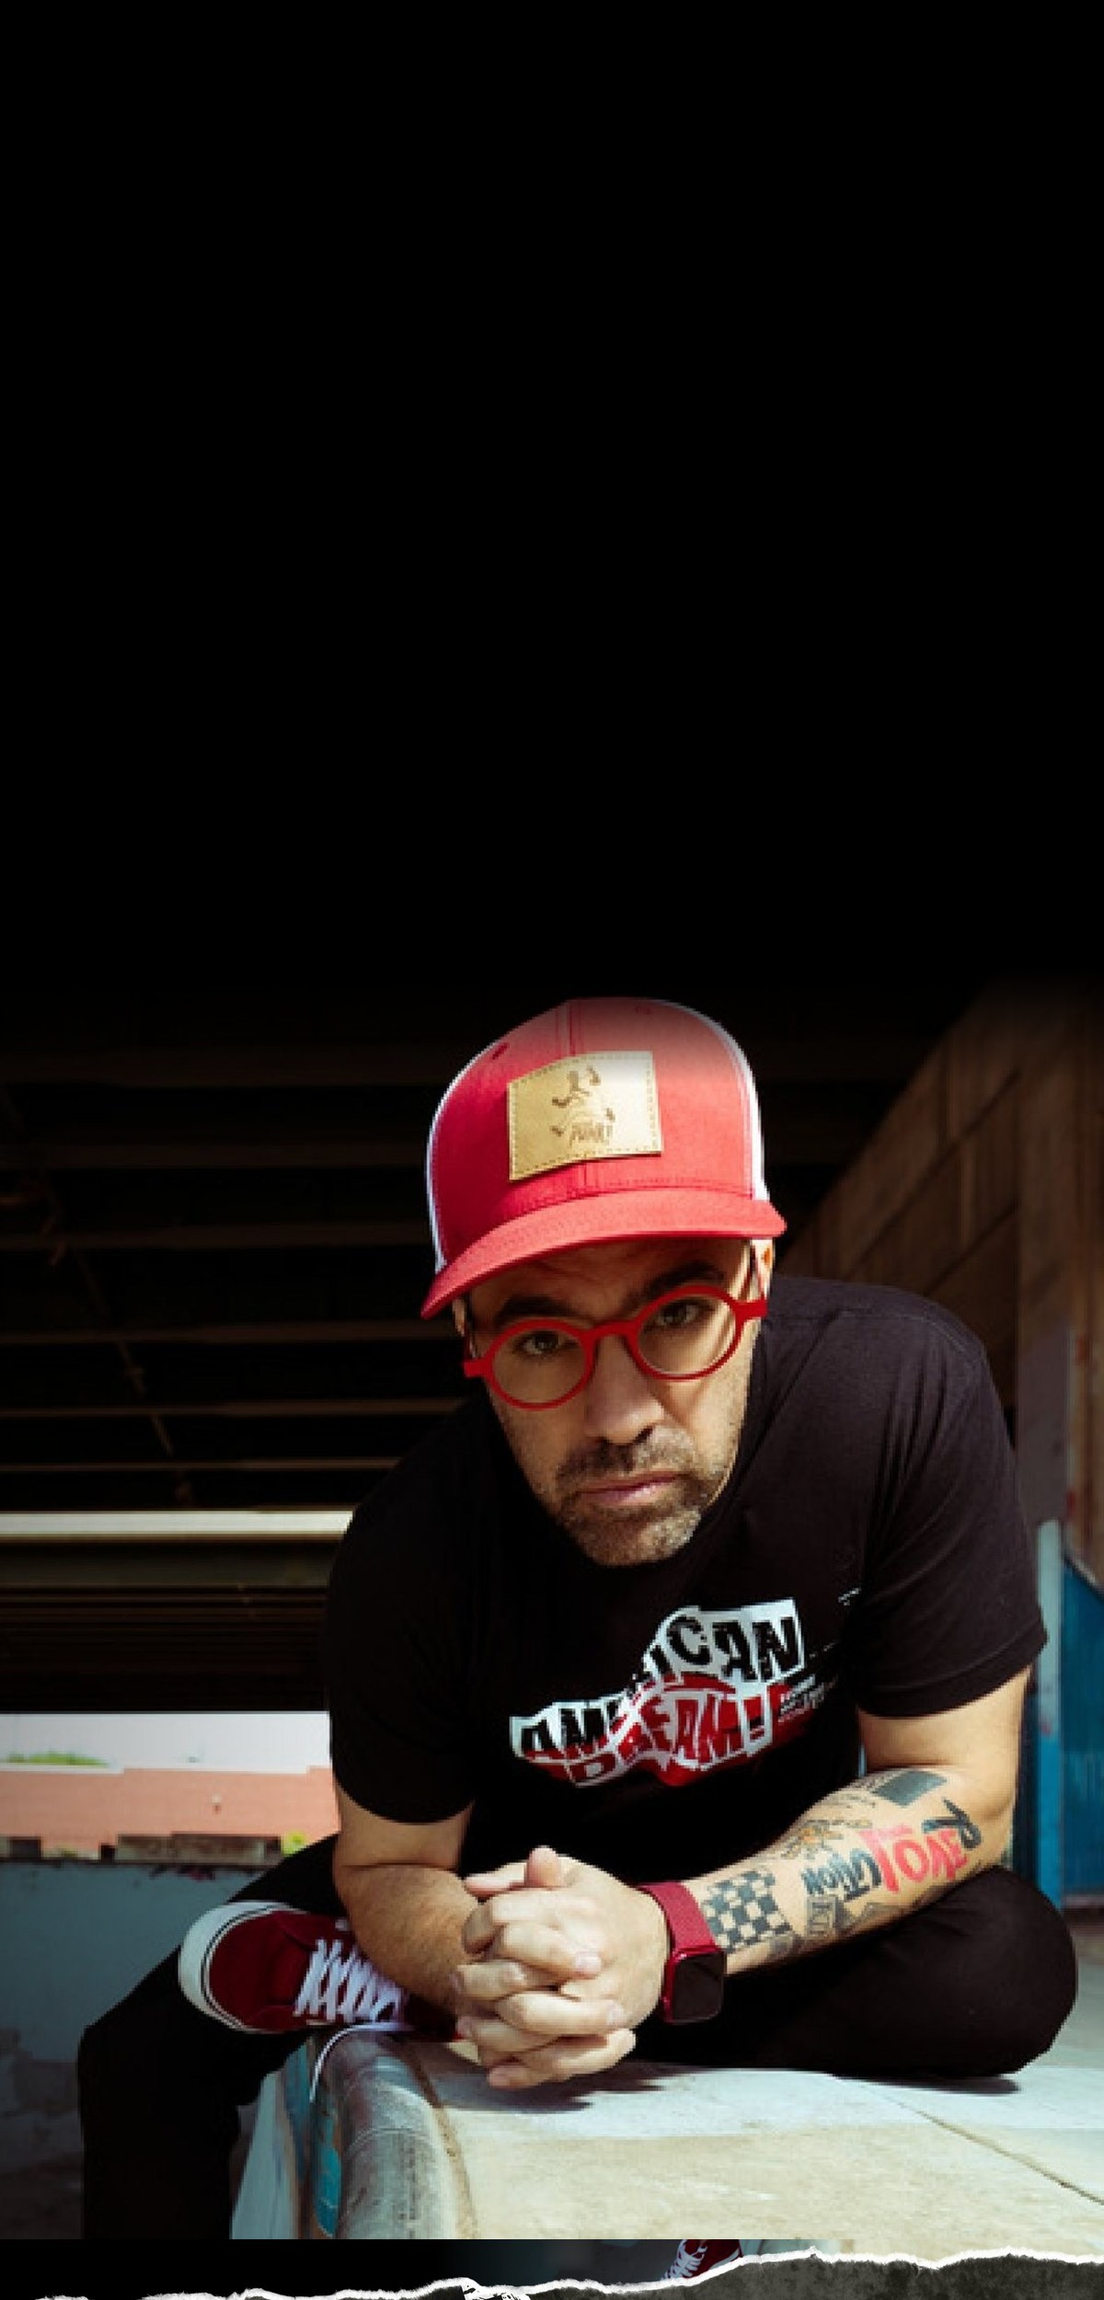
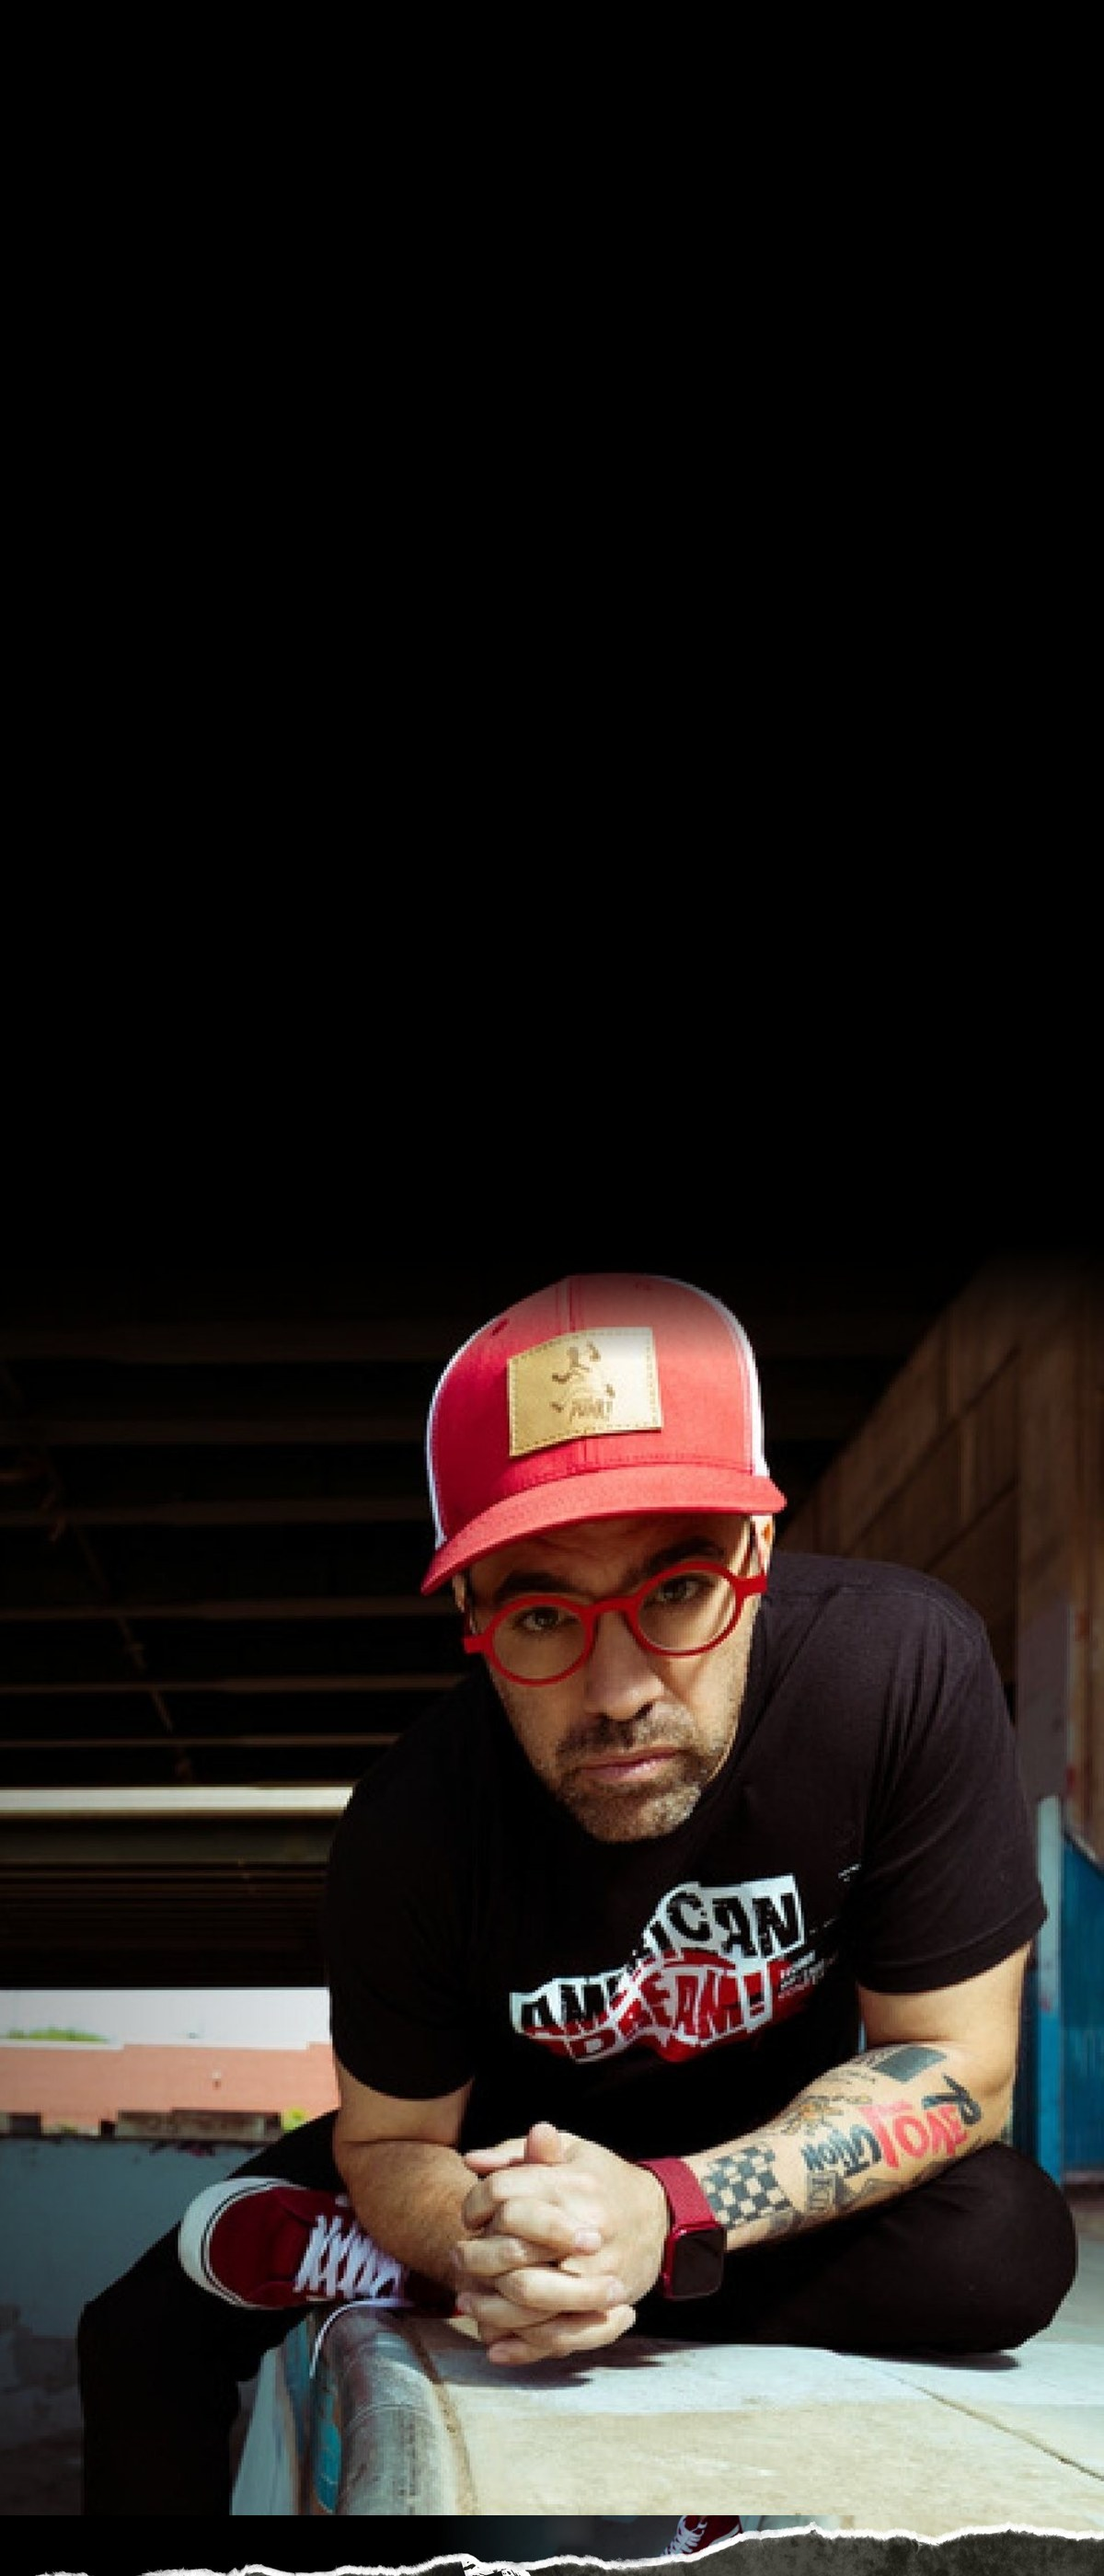
Put the splat back on phones
Dropping it was the wrong call. It was hidden because at phone width it
landed under the navigation's own Mortgage Punk mark and across
"REIMAGINING THE" — but the splat punching in is the single most-liked thing
on this page, and the right fix was making room for it rather than removing
it.

hero-plate-m.jpg goes from 1200x2500 to 1200x2800. The extra 300px is the
room the splat needed: the black field above the photograph is now 48% of the
plate and holds all three layers in reading order — splat, headline, prompt —
with the photograph and the torn edge unchanged below them.

Top 3% puts the splat's first pixel 69px down the viewport on a 390x844
screen against a navigation bar ending at 67px. That 2px is the whole margin,
so moving it up from here puts it behind the nav.

Every box keeps its artwork's own ratio, measured rather than assumed: splat
360x260 against a 460x332 source, headline 864x784 against 1163x1056, prompt
504x260 against 416x215. Nothing is stretched.

Verified the punch itself still runs here and is not just a static logo —
probed across the animation it scales to roughly 3x with the flash peaking at
0.27 before settling, which is the desktop behaviour. Desktop is untouched:
it still uses the 2600x1622 plate and the phone-only prompt layer computes to
display:none there.

The hero now stands at 114% of a phone screen rather than 102%, so his hands
sit just below the fold. That is the cost of the splat and it is worth it.
[…]

Changed region(s): [[0.0, 0.4056, 1.0, 1.0], [0.0308, 0.9984, 0.0925, 1.0], [0.1233, 0.9984, 0.1542, 1.0]]

diff --git a/src/components/sections/CompStage.module.css b/src/components/sections/CompStage.module.css
@@ -346,27 +346,33 @@
    the hole diffused shut, so on phones it is placed where the layout wants it
    and the hotspot follows it. Desktop still uses the painted one. */
 @media(max-width:760px){
-  .hero{aspect-ratio:1200/2500;
+  .hero{aspect-ratio:1200/2800;
     background-image:url("/brand/hero-plate-m.jpg")}
 
-  /* NO SPLAT ON PHONES. The navigation already carries the Mortgage Punk mark
-     in the top-left corner, and at this width the splat lands directly under
-     it and across "REIMAGINING THE" — two logos stacked on each other and a
-     clipped headline. The punch is a desktop moment; here the headline owns
-     the top of the screen and gets the room it needs to be read. */
-  .heroSplat,.splatFlash{display:none}
-  .heroHeadline{left:6%;top:4%;width:76%;height:33.1%}
+  /* THE SPLAT STAYS, AND THE PLATE WAS REBUILT TO FIT IT.
+     An earlier cut dropped it on phones because it landed under the nav's own
+     Mortgage Punk mark and across "REIMAGINING THE". Hiding it was the wrong
+     fix — the splat punching in is the single most-liked thing on this page —
+     so hero-plate-m.jpg grew from 1200x2500 to 1200x2800 and the extra 300px
+     is the room it needed. The black field above the photograph is now 48% of
+     the plate and holds all three layers in order: splat, headline, prompt.
+
+     Top 3% puts its first pixel about 70px down the viewport on a 390x844
+     screen, which clears the 67px navigation bar. Moving it up from here puts
+     it behind the nav. */
+  .heroSplat{left:5%;top:3%;width:30%;height:9.3%}
+  .heroHeadline{left:6%;top:13%;width:72%;height:28%}
 
   /* The painted prompt lives inside the desktop plate only, so the phone gets
      the lifted one. Sized off the extracted art's own 416x215. */
-  .heroPromptM{display:block;position:absolute;left:7%;top:38.6%;
-    width:42%;height:10.4%;pointer-events:none;z-index:2}
+  .heroPromptM{display:block;position:absolute;left:7%;top:42%;
+    width:42%;height:9.3%;pointer-events:none;z-index:2}
   .heroPromptM img{display:block;width:100%;height:100%}
 
   /* The hotspot moves with it. Same box and the same 416:215 the mask was cut
      at, so the pulse and the hover bloom stay in register with the lettering
      rather than stretching off it. */
-  .heroAsk{left:7%;top:38.6%;width:42%;height:10.4%}
+  .heroAsk{left:7%;top:42%;width:42%;height:9.3%}
   .heroAsk::after{inset:-14px -10px}
 }
 
